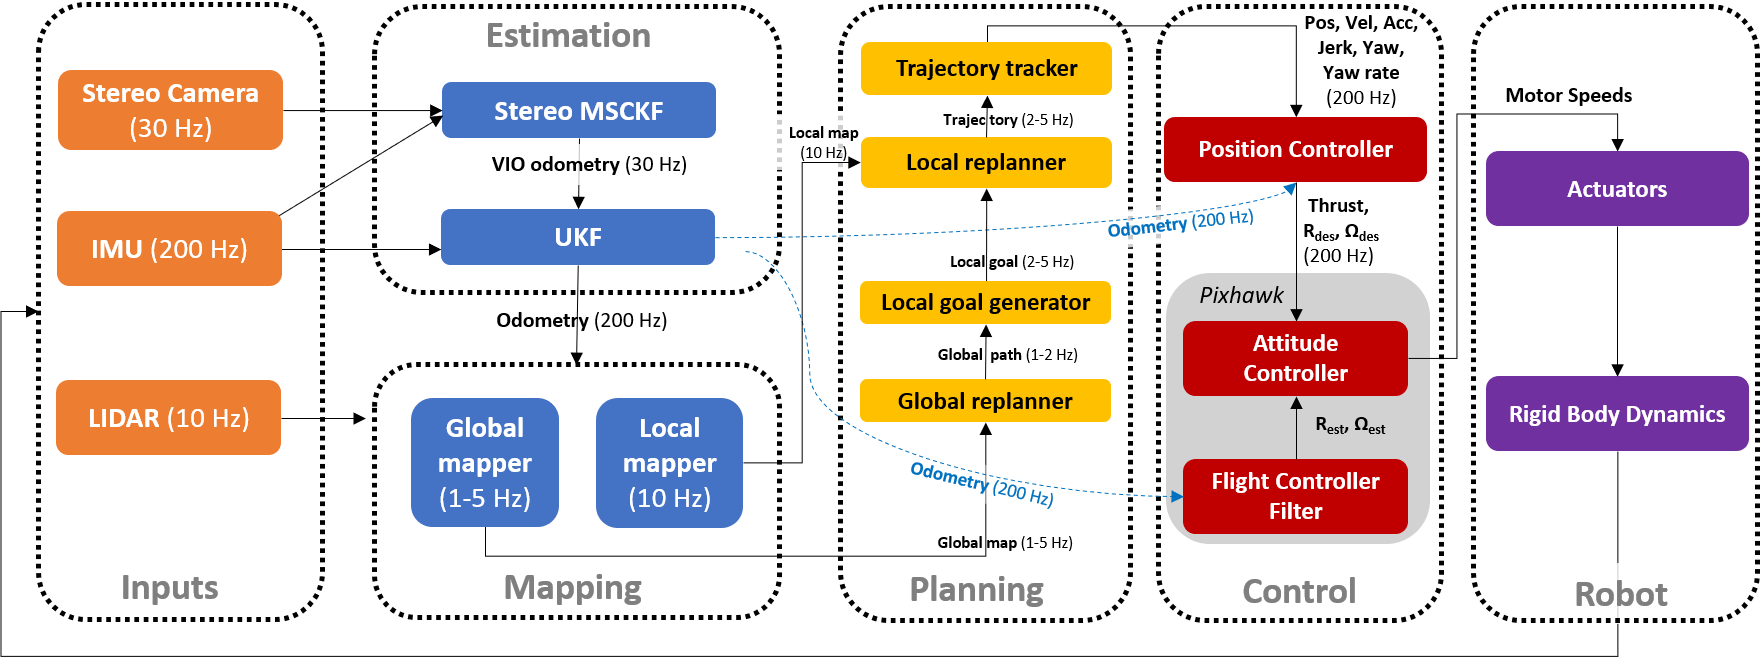
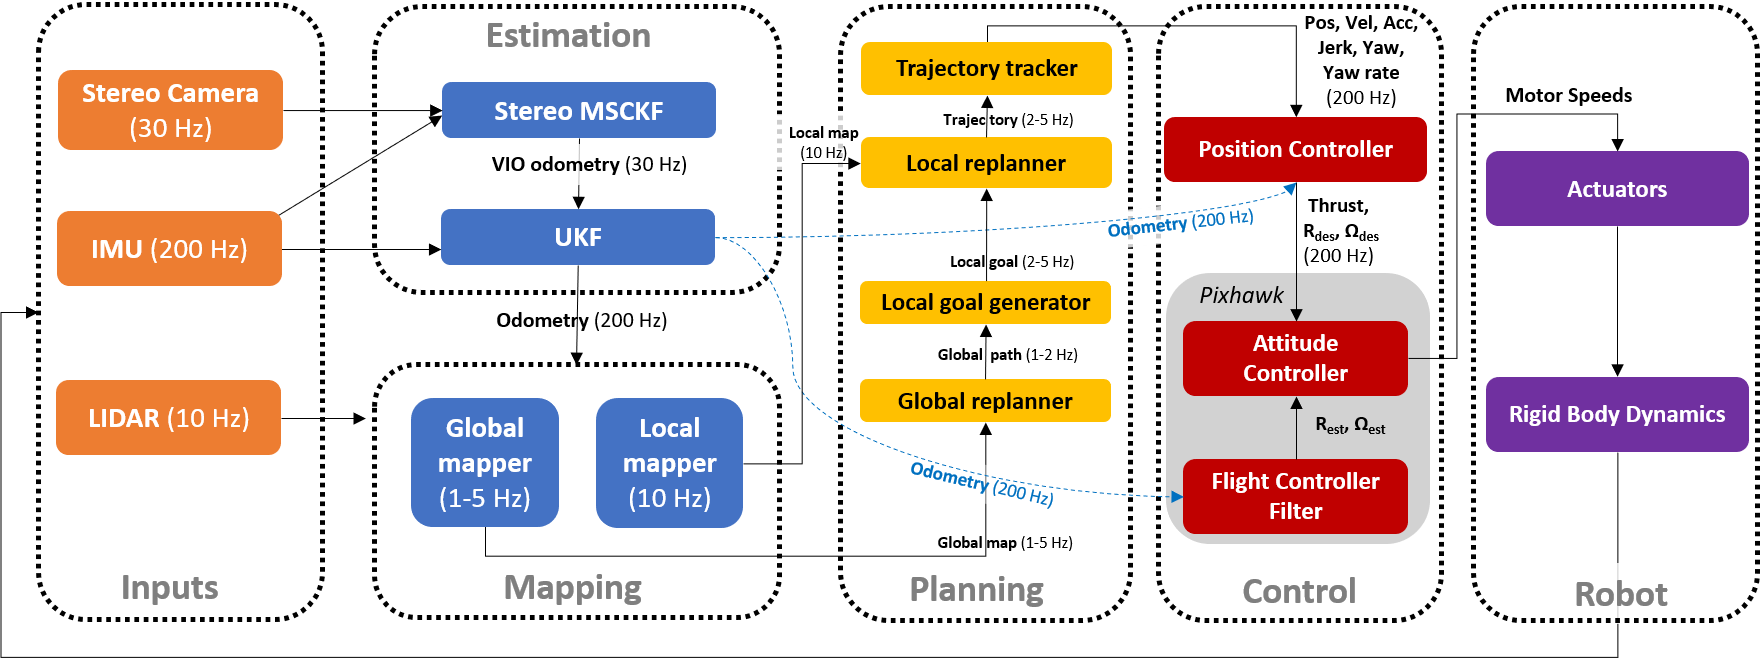
Fix diagram issues (#108)
* Update autonomy_stack_pipeline.png

* Update README.md

* Update README.md

diff --git a/README.md b/README.md
@@ -13,7 +13,7 @@ This is the autonomous flight code stack used at KumarRobotics, providing a comp
 ![alt text](https://github.com/KumarRobotics/kr_autonomous_flight/blob/master/docs/autonomy_stack_pipeline.png)
 
 ## Documentation and Instructions
-Please refer to [the Wiki](https://github.com/KumarRobotics/kr_autonomous_flight/wiki) for detailed instructions about how to use this code.
+Please refer to [our Wiki page](https://github.com/KumarRobotics/kr_autonomous_flight/wiki) for detailed instructions about how to use this code.
 
 ## Videos
 [Real-world experiments on large-scale autonomous flight and semantic SLAM in forests (3-min video-only)](https://www.youtube.com/watch?v=Ad3ANMX8gd4)
@@ -54,5 +54,5 @@ If you use this stack in your work, please cite:
 ```
 ## License
 
-This code is released using the Penn Software KR\_AUTONOMOUS\_FLIGHT licence.
+This code is released using the Penn Software Licence.
 Please refer to `LICENSE.txt` for details.
